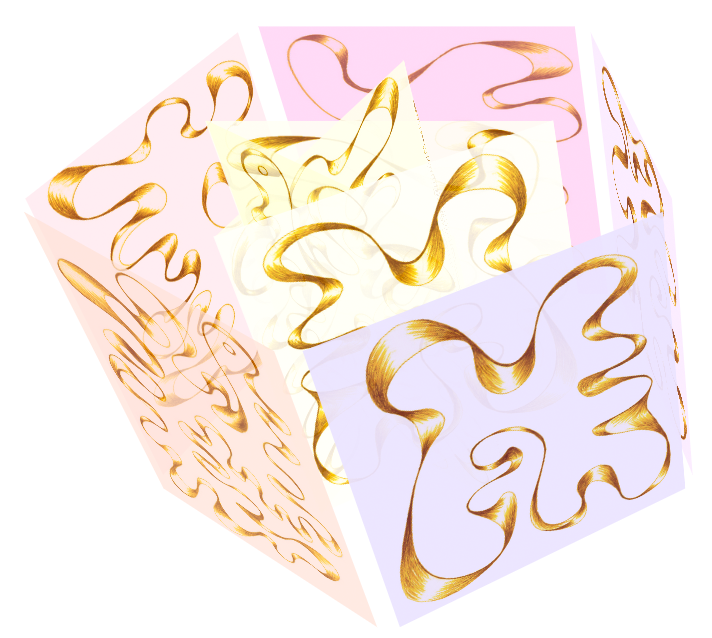
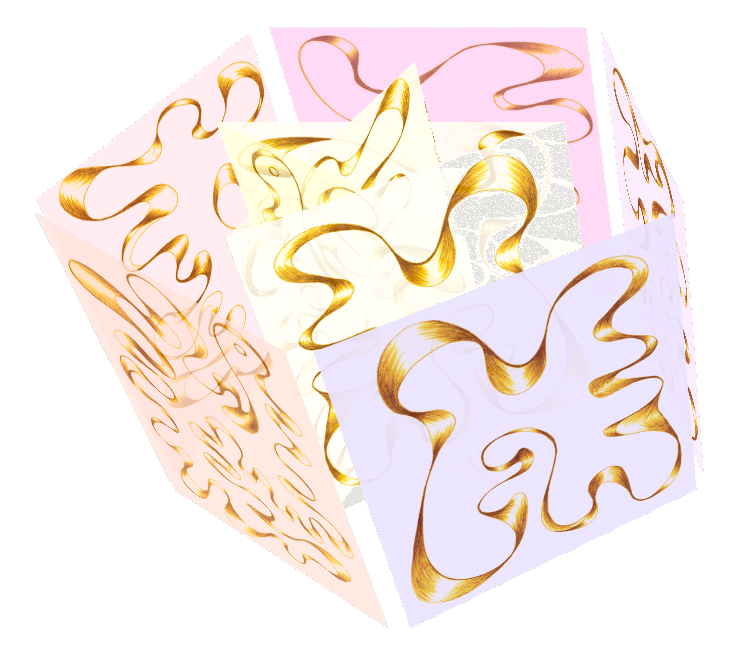
5

Changed region(s): [[0.0309, 0.0298, 0.9888, 0.9828], [0.2163, 0.0893, 0.3708, 0.2382]]

diff --git a/jingcai/www/index2.html b/jingcai/www/index2.html
@@ -10,7 +10,7 @@
     <!-- Path to Framework7 Library CSS-->
     <link rel="stylesheet" href="font/iconfont.css">
     <link rel="stylesheet" href="css/framework7.min.css">
-    <link rel="stylesheet" href="css/weather7.css">
+    <!-- <link rel="stylesheet" href="css/weather7.css"> -->
     <!-- Path to your custom app styles-->
     <link rel="stylesheet" href="css/my-app.css">
 
@@ -60,14 +60,14 @@
                         <div data-page="index" class="page">
                             <!-- Scrollable page content-->
                             <div class="page-content">
-                                <div class="content-block-title gaga">动态五图 </div>
+                                <div class="content-block-title gaga">动态五图</div>
                                 <div class="content-block">
                                     <div class="row">
                                         <div class="col-50">
                                             <img src="pic/wu.png">
                                         </div>
                                         <div class="col-50">
-                                            <img src="pic/wu.png">
+                                            <img src="pic/111.png">
                                         </div>
                                     </div>
                                 </div>
@@ -76,26 +76,17 @@
                                 <div class="content-block-title">五方如来</div>
                                 <div class="list-block">
                                     <div class="row">
-                                        <div class="col-50">.col-50</div>
-                                        <div class="col-50">.col-50</div>
-                                    </div>
-                                    <div class="row">
-                                        <div class="col-25">.col-25</div>
-                                        <div class="col-25">.col-25</div>
-                                        <div class="col-25">.col-25</div>
-                                        <div class="col-25">.col-25</div>
-                                    </div>
-                                    <div class="row">
-                                        <div class="col-33">.col-33</div>
-                                        <div class="col-33">.col-33</div>
-                                        <div class="col-33">.col-33</div>
-                                    </div>
-                                    <div class="row">
-                                        <div class="col-20">.col-20</div>
-                                        <div class="col-20">.col-20</div>
-                                        <div class="col-20">.col-20</div>
-                                        <div class="col-20">.col-20</div>
-                                        <div class="col-20">.col-20</div>
+                                        <div class="col-50">
+                                            <img src="pic/wu3.png">
+                                            <img src="pic/wu4.png">
+                                        </div>
+                                        <div class="col-50">
+                                            <img src="pic/wu2.png">
+                                            <img src="pic/wu5.png">
+                                        </div>
+                                        <div class="col-100">
+                                            <img src="pic/wu1.png">
+                                        </div>
                                     </div>
                                 </div>
 
@@ -105,9 +96,25 @@
 
                                 </div>
 
-
                                 <div class="content-block-title">无极大孢子</div>
                                 <div class="list-block">
+
+                                </div>
+                                <div class="content-block-title">无极大孢子</div>
+                                <div class="list-block">
+                                </div>
+
+
+
+                                <div class="content-block-title">无极大孢子</div>
+                                <div class="list-block forecast-list">
+                                    <div class="row">
+                                        <div class="col-100">
+                                            <img src="pic/baozi.gif">
+                                        </div>
+                                    </div>
+                                    
+
 
                                 </div>
 
@@ -129,9 +136,13 @@
                 <div class="pages navbar-fixed">
                     <div data-page="home-2" class="page">
                         <div class="page-content">
-                            <div class="content-block">
-                                <p>This is view 2</p>
+                            <div class="list-block forecast-list">
+                                <ul>
+                                <li>rrr</li>
+                                <li>sdfsd</li>
+                                </ul>
                             </div>
+
                         </div>
                     </div>
                 </div>

diff --git a/jingcai/www/css/weather7.css b/jingcai/www/css/weather7.css
@@ -40,7 +40,7 @@ body {
 .page[data-page="index"],
 .page[data-page="detail"] {
   background: none;
-  background: #000000 url(../img/ios_7_galaxy-wide.jpg) no-repeat center;
+  background: #000000 url(../img/bg.jpg) no-repeat center;
   -webkit-background-size: cover;
   background-size: cover;
 }
@@ -55,10 +55,9 @@ html.ios .page-content {
 /*==============================
     Navbar
 ==============================*/
-
 .navbar {
   border-bottom: none;
-  background: #191e3d;
+  background: #2b1127;
   color: #fff;
 }
 span.navbar-logo {

diff --git a/jingcai/www/css/my-app.css b/jingcai/www/css/my-app.css
@@ -2,6 +2,12 @@
     height: 100%;
     width: 100%;
 }
+.col-100 img {
+    height: 100%;
+    width: 100%;    
+}
+
+
 .gaga {
     -webkit-background-clip: text;
     -webkit-text-fill-color: transparent;
